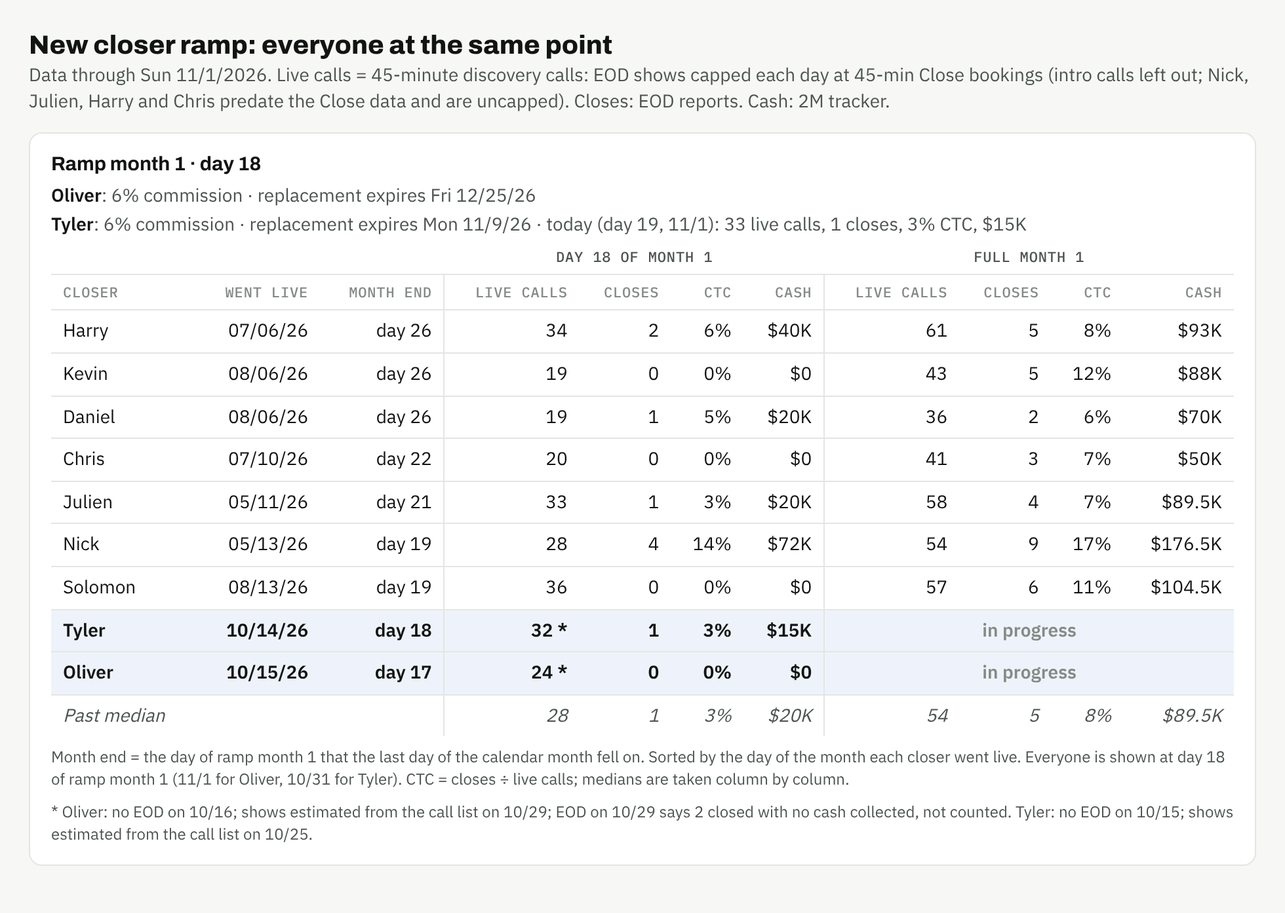
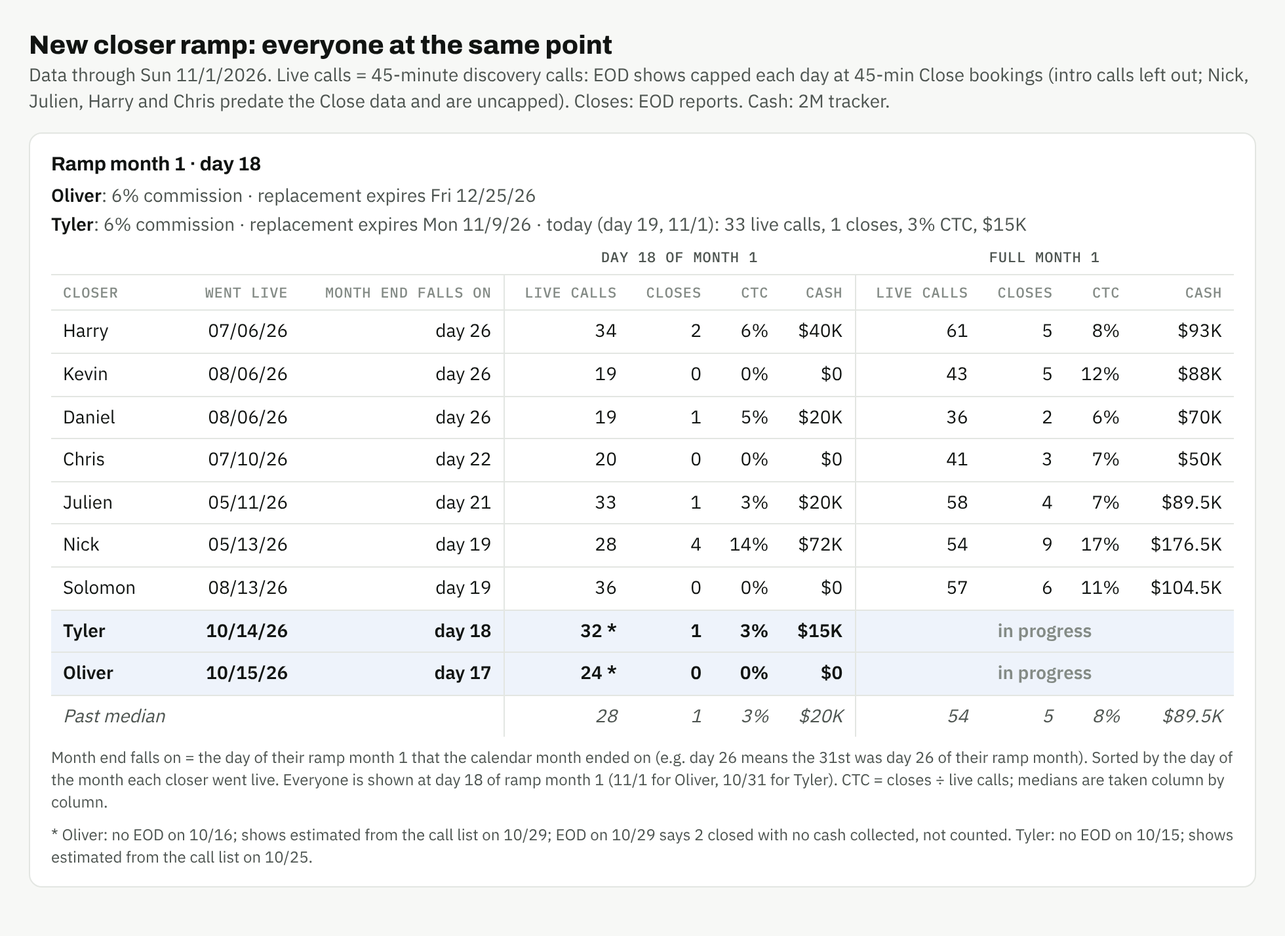
Ramp table: 'Month end falls on' column with a plain explanation
Claude-Session: https://claude.ai/code/session_01D9LMPQn5wBkznxh856E6g3

diff --git a/outputs/2026-11-02/ramp_kevin_solomon_page.html b/outputs/2026-11-02/ramp_kevin_solomon_page.html
@@ -8,7 +8,7 @@
 @media (prefers-color-scheme: dark){:root:not([data-theme="light"]){--bg:#121413;--card:#1a1c1b;--ink:#eef0ed;--ink2:#c0c5c1;--muted:#8e958f;--grid:#2c302d;--hl:#1e2633;color-scheme:dark}}
 :root[data-theme="dark"]{--bg:#121413;--card:#1a1c1b;--ink:#eef0ed;--ink2:#c0c5c1;--muted:#8e958f;--grid:#2c302d;--hl:#1e2633;color-scheme:dark}
 body{background:var(--bg);color:var(--ink);font:14px/1.45 var(--body)}
-.wrap{max-width:1000px;margin:0 auto;padding-block:28px 40px;padding-left:max(16px,env(safe-area-inset-left,0px));padding-right:max(16px,env(safe-area-inset-right,0px));display:flex;flex-direction:column;gap:16px}
+.wrap{max-width:1080px;margin:0 auto;padding-block:28px 40px;padding-left:max(16px,env(safe-area-inset-left,0px));padding-right:max(16px,env(safe-area-inset-right,0px));display:flex;flex-direction:column;gap:16px}
 .eyebrow{font:500 12px var(--mono);letter-spacing:.06em;text-transform:uppercase;color:var(--muted)}
 h1{font:800 clamp(22px,4vw,30px)/1.15 var(--display);margin:2px 0 0;text-wrap:balance}
 .lede{color:var(--ink2);margin:6px 0 0;max-width:75ch}
@@ -34,5 +34,5 @@ section+section{margin-top:0}
     <h1>Kevin and Solomon against every past closer at their current day</h1>
     <p class="lede">Each of them is compared with past closers at the same day of their own month 3: Kevin at day 27 (month 3 runs 10/6–11/5) and Solomon at day 20 (10/13–11/12). Data through Sun 11/1/2026. Live calls = 45-minute discovery calls: EOD shows capped each day at 45-min Close bookings (intro calls left out; Nick, Julien, Harry and Chris predate the Close data and are uncapped). Closes: EOD reports. Cash: 2M tracker.</p>
   </header>
-  <section><h2>Kevin · Ramp month 3 · day 27</h2><p class="sub"><b>Kevin</b>: 8% commission</p><div class="tw"><table><thead><tr><th></th><th></th><th></th><th colspan="4" class="grp">Day 27 of month 3</th><th colspan="4" class="grp">Full month 3</th></tr><tr><th>Closer</th><th>Went live</th><th>Month end</th><th class="gs">Live calls</th><th>Closes</th><th>CTC</th><th>Cash</th><th class="gs">Live calls</th><th>Closes</th><th>CTC</th><th>Cash</th></tr></thead><tbody><tr><td>Harry</td><td>07/06/26</td><td>day 25</td><td class="gs">33</td><td>6</td><td>18%</td><td>$256K</td><td class="gs">33</td><td>6</td><td>18%</td><td>$256K</td></tr><tr class="cur"><td>Kevin</td><td>08/06/26</td><td>day 26</td><td class="gs">36 *</td><td>7</td><td>19%</td><td>$148K</td><td class="gs ip" colspan="4">in progress</td></tr><tr><td>Julien</td><td>05/11/26</td><td>day 21</td><td class="gs">47</td><td>5</td><td>11%</td><td>$122.5K</td><td class="gs">52</td><td>9</td><td>17%</td><td>$198.5K</td></tr><tr><td>Nick</td><td>05/13/26</td><td>day 19</td><td class="gs">48</td><td>11</td><td>23%</td><td>$242.5K</td><td class="gs">55</td><td>14</td><td>25%</td><td>$298.5K</td></tr><tr class="med"><td>Past median</td><td></td><td></td><td class="gs">47</td><td>6</td><td>18%</td><td>$242.5K</td><td class="gs">52</td><td>9</td><td>18%</td><td>$256K</td></tr></tbody></table></div><p class="foot">Month end = the day of ramp month 3 that the last day of the calendar month fell on. Sorted by the day of the month each closer went live. Everyone is shown at day 27 of ramp month 3 (11/1 for Kevin). CTC = closes ÷ live calls; medians are taken column by column.</p><p class="foot">* Kevin: $20K collected on 10/31 with no EOD, so any close that day isn&#x27;t counted.</p><p class="foot">Only 3 past closers have finished ramp month 3 so far (Nick, Julien, Harry), so the median is thin.</p><p class="foot">Left out: Chris (no calls or cash in ramp month 3; already gone).</p></section><section><h2>Solomon · Ramp month 3 · day 20</h2><p class="sub"><b>Solomon</b>: 8% commission</p><div class="tw"><table><thead><tr><th></th><th></th><th></th><th colspan="4" class="grp">Day 20 of month 3</th><th colspan="4" class="grp">Full month 3</th></tr><tr><th>Closer</th><th>Went live</th><th>Month end</th><th class="gs">Live calls</th><th>Closes</th><th>CTC</th><th>Cash</th><th class="gs">Live calls</th><th>Closes</th><th>CTC</th><th>Cash</th></tr></thead><tbody><tr><td>Harry</td><td>07/06/26</td><td>day 25</td><td class="gs">24</td><td>5</td><td>21%</td><td>$119.5K</td><td class="gs">33</td><td>6</td><td>18%</td><td>$256K</td></tr><tr><td>Julien</td><td>05/11/26</td><td>day 21</td><td class="gs">34</td><td>1</td><td>3%</td><td>$52.5K</td><td class="gs">52</td><td>9</td><td>17%</td><td>$198.5K</td></tr><tr><td>Nick</td><td>05/13/26</td><td>day 19</td><td class="gs">30</td><td>10</td><td>33%</td><td>$227.5K</td><td class="gs">55</td><td>14</td><td>25%</td><td>$298.5K</td></tr><tr class="cur"><td>Solomon</td><td>08/13/26</td><td>day 19</td><td class="gs">28 *</td><td>5</td><td>18%</td><td>$104K</td><td class="gs ip" colspan="4">in progress</td></tr><tr class="med"><td>Past median</td><td></td><td></td><td class="gs">30</td><td>5</td><td>21%</td><td>$119.5K</td><td class="gs">52</td><td>9</td><td>18%</td><td>$256K</td></tr></tbody></table></div><p class="foot">Month end = the day of ramp month 3 that the last day of the calendar month fell on. Sorted by the day of the month each closer went live. Everyone is shown at day 20 of ramp month 3 (11/1 for Solomon). CTC = closes ÷ live calls; medians are taken column by column.</p><p class="foot">* Solomon: no EOD on 10/22, 10/23; $15K collected on 10/31 with no EOD, so any close that day isn&#x27;t counted.</p><p class="foot">Only 3 past closers have finished ramp month 3 so far (Nick, Julien, Harry), so the median is thin.</p><p class="foot">Left out: Chris (no calls or cash in ramp month 3; already gone).</p></section>
+  <section><h2>Kevin · Ramp month 3 · day 27</h2><p class="sub"><b>Kevin</b>: 8% commission</p><div class="tw"><table><thead><tr><th></th><th></th><th></th><th colspan="4" class="grp">Day 27 of month 3</th><th colspan="4" class="grp">Full month 3</th></tr><tr><th>Closer</th><th>Went live</th><th>Month end falls on</th><th class="gs">Live calls</th><th>Closes</th><th>CTC</th><th>Cash</th><th class="gs">Live calls</th><th>Closes</th><th>CTC</th><th>Cash</th></tr></thead><tbody><tr><td>Harry</td><td>07/06/26</td><td>day 25</td><td class="gs">33</td><td>6</td><td>18%</td><td>$256K</td><td class="gs">33</td><td>6</td><td>18%</td><td>$256K</td></tr><tr class="cur"><td>Kevin</td><td>08/06/26</td><td>day 26</td><td class="gs">36 *</td><td>7</td><td>19%</td><td>$148K</td><td class="gs ip" colspan="4">in progress</td></tr><tr><td>Julien</td><td>05/11/26</td><td>day 21</td><td class="gs">47</td><td>5</td><td>11%</td><td>$122.5K</td><td class="gs">52</td><td>9</td><td>17%</td><td>$198.5K</td></tr><tr><td>Nick</td><td>05/13/26</td><td>day 19</td><td class="gs">48</td><td>11</td><td>23%</td><td>$242.5K</td><td class="gs">55</td><td>14</td><td>25%</td><td>$298.5K</td></tr><tr class="med"><td>Past median</td><td></td><td></td><td class="gs">47</td><td>6</td><td>18%</td><td>$242.5K</td><td class="gs">52</td><td>9</td><td>18%</td><td>$256K</td></tr></tbody></table></div><p class="foot">Month end falls on = the day of their ramp month 3 that the calendar month ended on (e.g. day 26 means the 31st was day 26 of their ramp month). Sorted by the day of the month each closer went live. Everyone is shown at day 27 of ramp month 3 (11/1 for Kevin). CTC = closes ÷ live calls; medians are taken column by column.</p><p class="foot">* Kevin: $20K collected on 10/31 with no EOD, so any close that day isn&#x27;t counted.</p><p class="foot">Only 3 past closers have finished ramp month 3 so far (Nick, Julien, Harry), so the median is thin.</p><p class="foot">Left out: Chris (no calls or cash in ramp month 3; already gone).</p></section><section><h2>Solomon · Ramp month 3 · day 20</h2><p class="sub"><b>Solomon</b>: 8% commission</p><div class="tw"><table><thead><tr><th></th><th></th><th></th><th colspan="4" class="grp">Day 20 of month 3</th><th colspan="4" class="grp">Full month 3</th></tr><tr><th>Closer</th><th>Went live</th><th>Month end falls on</th><th class="gs">Live calls</th><th>Closes</th><th>CTC</th><th>Cash</th><th class="gs">Live calls</th><th>Closes</th><th>CTC</th><th>Cash</th></tr></thead><tbody><tr><td>Harry</td><td>07/06/26</td><td>day 25</td><td class="gs">24</td><td>5</td><td>21%</td><td>$119.5K</td><td class="gs">33</td><td>6</td><td>18%</td><td>$256K</td></tr><tr><td>Julien</td><td>05/11/26</td><td>day 21</td><td class="gs">34</td><td>1</td><td>3%</td><td>$52.5K</td><td class="gs">52</td><td>9</td><td>17%</td><td>$198.5K</td></tr><tr><td>Nick</td><td>05/13/26</td><td>day 19</td><td class="gs">30</td><td>10</td><td>33%</td><td>$227.5K</td><td class="gs">55</td><td>14</td><td>25%</td><td>$298.5K</td></tr><tr class="cur"><td>Solomon</td><td>08/13/26</td><td>day 19</td><td class="gs">28 *</td><td>5</td><td>18%</td><td>$104K</td><td class="gs ip" colspan="4">in progress</td></tr><tr class="med"><td>Past median</td><td></td><td></td><td class="gs">30</td><td>5</td><td>21%</td><td>$119.5K</td><td class="gs">52</td><td>9</td><td>18%</td><td>$256K</td></tr></tbody></table></div><p class="foot">Month end falls on = the day of their ramp month 3 that the calendar month ended on (e.g. day 26 means the 31st was day 26 of their ramp month). Sorted by the day of the month each closer went live. Everyone is shown at day 20 of ramp month 3 (11/1 for Solomon). CTC = closes ÷ live calls; medians are taken column by column.</p><p class="foot">* Solomon: no EOD on 10/22, 10/23; $15K collected on 10/31 with no EOD, so any close that day isn&#x27;t counted.</p><p class="foot">Only 3 past closers have finished ramp month 3 so far (Nick, Julien, Harry), so the median is thin.</p><p class="foot">Left out: Chris (no calls or cash in ramp month 3; already gone).</p></section>
 </div>

diff --git a/outputs/2026-11-02/ramp_table_kevin_solomon.html b/outputs/2026-11-02/ramp_table_kevin_solomon.html
@@ -17,4 +17,4 @@ tr.med td{color:var(--ink2);font-style:italic;border-bottom:none}
 .foot{font-size:12px;color:var(--ink2);margin:8px 0 0}
 .sub{margin:0 0 2px;color:var(--ink2)}.sub b{color:var(--ink)}
 section h2+.sub{margin-top:-2px}section .sub:last-of-type{margin-bottom:10px}
-</style></head><body><div class='wrap'><h1>New closer ramp: everyone at the same point</h1><p class='lede'>Data through Sun 11/1/2026. Live calls = 45-minute discovery calls: EOD shows capped each day at 45-min Close bookings (intro calls left out; Nick, Julien, Harry and Chris predate the Close data and are uncapped). Closes: EOD reports. Cash: 2M tracker.</p><section><h2>Kevin · Ramp month 3 · day 27</h2><p class="sub"><b>Kevin</b>: 8% commission</p><table><thead><tr><th></th><th></th><th></th><th colspan="4" class="grp">Day 27 of month 3</th><th colspan="4" class="grp">Full month 3</th></tr><tr><th>Closer</th><th>Went live</th><th>Month end</th><th class="gs">Live calls</th><th>Closes</th><th>CTC</th><th>Cash</th><th class="gs">Live calls</th><th>Closes</th><th>CTC</th><th>Cash</th></tr></thead><tbody><tr><td>Harry</td><td>07/06/26</td><td>day 25</td><td class="gs">33</td><td>6</td><td>18%</td><td>$256K</td><td class="gs">33</td><td>6</td><td>18%</td><td>$256K</td></tr><tr class="cur"><td>Kevin</td><td>08/06/26</td><td>day 26</td><td class="gs">36 *</td><td>7</td><td>19%</td><td>$148K</td><td class="gs ip" colspan="4">in progress</td></tr><tr><td>Julien</td><td>05/11/26</td><td>day 21</td><td class="gs">47</td><td>5</td><td>11%</td><td>$122.5K</td><td class="gs">52</td><td>9</td><td>17%</td><td>$198.5K</td></tr><tr><td>Nick</td><td>05/13/26</td><td>day 19</td><td class="gs">48</td><td>11</td><td>23%</td><td>$242.5K</td><td class="gs">55</td><td>14</td><td>25%</td><td>$298.5K</td></tr><tr class="med"><td>Past median</td><td></td><td></td><td class="gs">47</td><td>6</td><td>18%</td><td>$242.5K</td><td class="gs">52</td><td>9</td><td>18%</td><td>$256K</td></tr></tbody></table><p class="foot">Month end = the day of ramp month 3 that the last day of the calendar month fell on. Sorted by the day of the month each closer went live. Everyone is shown at day 27 of ramp month 3 (11/1 for Kevin). CTC = closes ÷ live calls; medians are taken column by column.</p><p class="foot">* Kevin: $20K collected on 10/31 with no EOD, so any close that day isn&#x27;t counted.</p><p class="foot">Only 3 past closers have finished ramp month 3 so far (Nick, Julien, Harry), so the median is thin.</p><p class="foot">Left out: Chris (no calls or cash in ramp month 3; already gone).</p></section><section><h2>Solomon · Ramp month 3 · day 20</h2><p class="sub"><b>Solomon</b>: 8% commission</p><table><thead><tr><th></th><th></th><th></th><th colspan="4" class="grp">Day 20 of month 3</th><th colspan="4" class="grp">Full month 3</th></tr><tr><th>Closer</th><th>Went live</th><th>Month end</th><th class="gs">Live calls</th><th>Closes</th><th>CTC</th><th>Cash</th><th class="gs">Live calls</th><th>Closes</th><th>CTC</th><th>Cash</th></tr></thead><tbody><tr><td>Harry</td><td>07/06/26</td><td>day 25</td><td class="gs">24</td><td>5</td><td>21%</td><td>$119.5K</td><td class="gs">33</td><td>6</td><td>18%</td><td>$256K</td></tr><tr><td>Julien</td><td>05/11/26</td><td>day 21</td><td class="gs">34</td><td>1</td><td>3%</td><td>$52.5K</td><td class="gs">52</td><td>9</td><td>17%</td><td>$198.5K</td></tr><tr><td>Nick</td><td>05/13/26</td><td>day 19</td><td class="gs">30</td><td>10</td><td>33%</td><td>$227.5K</td><td class="gs">55</td><td>14</td><td>25%</td><td>$298.5K</td></tr><tr class="cur"><td>Solomon</td><td>08/13/26</td><td>day 19</td><td class="gs">28 *</td><td>5</td><td>18%</td><td>$104K</td><td class="gs ip" colspan="4">in progress</td></tr><tr class="med"><td>Past median</td><td></td><td></td><td class="gs">30</td><td>5</td><td>21%</td><td>$119.5K</td><td class="gs">52</td><td>9</td><td>18%</td><td>$256K</td></tr></tbody></table><p class="foot">Month end = the day of ramp month 3 that the last day of the calendar month fell on. Sorted by the day of the month each closer went live. Everyone is shown at day 20 of ramp month 3 (11/1 for Solomon). CTC = closes ÷ live calls; medians are taken column by column.</p><p class="foot">* Solomon: no EOD on 10/22, 10/23; $15K collected on 10/31 with no EOD, so any close that day isn&#x27;t counted.</p><p class="foot">Only 3 past closers have finished ramp month 3 so far (Nick, Julien, Harry), so the median is thin.</p><p class="foot">Left out: Chris (no calls or cash in ramp month 3; already gone).</p></section></div></body></html>
+</style></head><body><div class='wrap'><h1>New closer ramp: everyone at the same point</h1><p class='lede'>Data through Sun 11/1/2026. Live calls = 45-minute discovery calls: EOD shows capped each day at 45-min Close bookings (intro calls left out; Nick, Julien, Harry and Chris predate the Close data and are uncapped). Closes: EOD reports. Cash: 2M tracker.</p><section><h2>Kevin · Ramp month 3 · day 27</h2><p class="sub"><b>Kevin</b>: 8% commission</p><table><thead><tr><th></th><th></th><th></th><th colspan="4" class="grp">Day 27 of month 3</th><th colspan="4" class="grp">Full month 3</th></tr><tr><th>Closer</th><th>Went live</th><th>Month end falls on</th><th class="gs">Live calls</th><th>Closes</th><th>CTC</th><th>Cash</th><th class="gs">Live calls</th><th>Closes</th><th>CTC</th><th>Cash</th></tr></thead><tbody><tr><td>Harry</td><td>07/06/26</td><td>day 25</td><td class="gs">33</td><td>6</td><td>18%</td><td>$256K</td><td class="gs">33</td><td>6</td><td>18%</td><td>$256K</td></tr><tr class="cur"><td>Kevin</td><td>08/06/26</td><td>day 26</td><td class="gs">36 *</td><td>7</td><td>19%</td><td>$148K</td><td class="gs ip" colspan="4">in progress</td></tr><tr><td>Julien</td><td>05/11/26</td><td>day 21</td><td class="gs">47</td><td>5</td><td>11%</td><td>$122.5K</td><td class="gs">52</td><td>9</td><td>17%</td><td>$198.5K</td></tr><tr><td>Nick</td><td>05/13/26</td><td>day 19</td><td class="gs">48</td><td>11</td><td>23%</td><td>$242.5K</td><td class="gs">55</td><td>14</td><td>25%</td><td>$298.5K</td></tr><tr class="med"><td>Past median</td><td></td><td></td><td class="gs">47</td><td>6</td><td>18%</td><td>$242.5K</td><td class="gs">52</td><td>9</td><td>18%</td><td>$256K</td></tr></tbody></table><p class="foot">Month end falls on = the day of their ramp month 3 that the calendar month ended on (e.g. day 26 means the 31st was day 26 of their ramp month). Sorted by the day of the month each closer went live. Everyone is shown at day 27 of ramp month 3 (11/1 for Kevin). CTC = closes ÷ live calls; medians are taken column by column.</p><p class="foot">* Kevin: $20K collected on 10/31 with no EOD, so any close that day isn&#x27;t counted.</p><p class="foot">Only 3 past closers have finished ramp month 3 so far (Nick, Julien, Harry), so the median is thin.</p><p class="foot">Left out: Chris (no calls or cash in ramp month 3; already gone).</p></section><section><h2>Solomon · Ramp month 3 · day 20</h2><p class="sub"><b>Solomon</b>: 8% commission</p><table><thead><tr><th></th><th></th><th></th><th colspan="4" class="grp">Day 20 of month 3</th><th colspan="4" class="grp">Full month 3</th></tr><tr><th>Closer</th><th>Went live</th><th>Month end falls on</th><th class="gs">Live calls</th><th>Closes</th><th>CTC</th><th>Cash</th><th class="gs">Live calls</th><th>Closes</th><th>CTC</th><th>Cash</th></tr></thead><tbody><tr><td>Harry</td><td>07/06/26</td><td>day 25</td><td class="gs">24</td><td>5</td><td>21%</td><td>$119.5K</td><td class="gs">33</td><td>6</td><td>18%</td><td>$256K</td></tr><tr><td>Julien</td><td>05/11/26</td><td>day 21</td><td class="gs">34</td><td>1</td><td>3%</td><td>$52.5K</td><td class="gs">52</td><td>9</td><td>17%</td><td>$198.5K</td></tr><tr><td>Nick</td><td>05/13/26</td><td>day 19</td><td class="gs">30</td><td>10</td><td>33%</td><td>$227.5K</td><td class="gs">55</td><td>14</td><td>25%</td><td>$298.5K</td></tr><tr class="cur"><td>Solomon</td><td>08/13/26</td><td>day 19</td><td class="gs">28 *</td><td>5</td><td>18%</td><td>$104K</td><td class="gs ip" colspan="4">in progress</td></tr><tr class="med"><td>Past median</td><td></td><td></td><td class="gs">30</td><td>5</td><td>21%</td><td>$119.5K</td><td class="gs">52</td><td>9</td><td>18%</td><td>$256K</td></tr></tbody></table><p class="foot">Month end falls on = the day of their ramp month 3 that the calendar month ended on (e.g. day 26 means the 31st was day 26 of their ramp month). Sorted by the day of the month each closer went live. Everyone is shown at day 20 of ramp month 3 (11/1 for Solomon). CTC = closes ÷ live calls; medians are taken column by column.</p><p class="foot">* Solomon: no EOD on 10/22, 10/23; $15K collected on 10/31 with no EOD, so any close that day isn&#x27;t counted.</p><p class="foot">Only 3 past closers have finished ramp month 3 so far (Nick, Julien, Harry), so the median is thin.</p><p class="foot">Left out: Chris (no calls or cash in ramp month 3; already gone).</p></section></div></body></html>

diff --git a/outputs/2026-11-02/weekly_table.html b/outputs/2026-11-02/weekly_table.html
@@ -17,4 +17,4 @@ tr.med td{color:var(--ink2);font-style:italic;border-bottom:none}
 .foot{font-size:12px;color:var(--ink2);margin:8px 0 0}
 .sub{margin:0 0 2px;color:var(--ink2)}.sub b{color:var(--ink)}
 section h2+.sub{margin-top:-2px}section .sub:last-of-type{margin-bottom:10px}
-</style></head><body><div class='wrap'><h1>New closer ramp: everyone at the same point</h1><p class='lede'>Data through Sun 11/1/2026. Live calls = 45-minute discovery calls: EOD shows capped each day at 45-min Close bookings (intro calls left out; Nick, Julien, Harry and Chris predate the Close data and are uncapped). Closes: EOD reports. Cash: 2M tracker.</p><section><h2>Ramp month 1 · day 18</h2><p class="sub"><b>Oliver</b>: 6% commission · replacement expires Fri 12/25/26</p><p class="sub"><b>Tyler</b>: 6% commission · replacement expires Mon 11/9/26 · today (day 19, 11/1): 33 live calls, 1 closes, 3% CTC, $15K</p><table><thead><tr><th></th><th></th><th></th><th colspan="4" class="grp">Day 18 of month 1</th><th colspan="4" class="grp">Full month 1</th></tr><tr><th>Closer</th><th>Went live</th><th>Month end</th><th class="gs">Live calls</th><th>Closes</th><th>CTC</th><th>Cash</th><th class="gs">Live calls</th><th>Closes</th><th>CTC</th><th>Cash</th></tr></thead><tbody><tr><td>Harry</td><td>07/06/26</td><td>day 26</td><td class="gs">34</td><td>2</td><td>6%</td><td>$40K</td><td class="gs">61</td><td>5</td><td>8%</td><td>$93K</td></tr><tr><td>Kevin</td><td>08/06/26</td><td>day 26</td><td class="gs">19</td><td>0</td><td>0%</td><td>$0</td><td class="gs">43</td><td>5</td><td>12%</td><td>$88K</td></tr><tr><td>Daniel</td><td>08/06/26</td><td>day 26</td><td class="gs">19</td><td>1</td><td>5%</td><td>$20K</td><td class="gs">36</td><td>2</td><td>6%</td><td>$70K</td></tr><tr><td>Chris</td><td>07/10/26</td><td>day 22</td><td class="gs">20</td><td>0</td><td>0%</td><td>$0</td><td class="gs">41</td><td>3</td><td>7%</td><td>$50K</td></tr><tr><td>Julien</td><td>05/11/26</td><td>day 21</td><td class="gs">33</td><td>1</td><td>3%</td><td>$20K</td><td class="gs">58</td><td>4</td><td>7%</td><td>$89.5K</td></tr><tr><td>Nick</td><td>05/13/26</td><td>day 19</td><td class="gs">28</td><td>4</td><td>14%</td><td>$72K</td><td class="gs">54</td><td>9</td><td>17%</td><td>$176.5K</td></tr><tr><td>Solomon</td><td>08/13/26</td><td>day 19</td><td class="gs">36</td><td>0</td><td>0%</td><td>$0</td><td class="gs">57</td><td>6</td><td>11%</td><td>$104.5K</td></tr><tr class="cur"><td>Tyler</td><td>10/14/26</td><td>day 18</td><td class="gs">32 *</td><td>1</td><td>3%</td><td>$15K</td><td class="gs ip" colspan="4">in progress</td></tr><tr class="cur"><td>Oliver</td><td>10/15/26</td><td>day 17</td><td class="gs">24 *</td><td>0</td><td>0%</td><td>$0</td><td class="gs ip" colspan="4">in progress</td></tr><tr class="med"><td>Past median</td><td></td><td></td><td class="gs">28</td><td>1</td><td>3%</td><td>$20K</td><td class="gs">54</td><td>5</td><td>8%</td><td>$89.5K</td></tr></tbody></table><p class="foot">Month end = the day of ramp month 1 that the last day of the calendar month fell on. Sorted by the day of the month each closer went live. Everyone is shown at day 18 of ramp month 1 (11/1 for Oliver, 10/31 for Tyler). CTC = closes ÷ live calls; medians are taken column by column.</p><p class="foot">* Oliver: no EOD on 10/16; shows estimated from the call list on 10/29; EOD on 10/29 says 2 closed with no cash collected, not counted. Tyler: no EOD on 10/15; shows estimated from the call list on 10/25.</p></section></div></body></html>
+</style></head><body><div class='wrap'><h1>New closer ramp: everyone at the same point</h1><p class='lede'>Data through Sun 11/1/2026. Live calls = 45-minute discovery calls: EOD shows capped each day at 45-min Close bookings (intro calls left out; Nick, Julien, Harry and Chris predate the Close data and are uncapped). Closes: EOD reports. Cash: 2M tracker.</p><section><h2>Ramp month 1 · day 18</h2><p class="sub"><b>Oliver</b>: 6% commission · replacement expires Fri 12/25/26</p><p class="sub"><b>Tyler</b>: 6% commission · replacement expires Mon 11/9/26 · today (day 19, 11/1): 33 live calls, 1 closes, 3% CTC, $15K</p><table><thead><tr><th></th><th></th><th></th><th colspan="4" class="grp">Day 18 of month 1</th><th colspan="4" class="grp">Full month 1</th></tr><tr><th>Closer</th><th>Went live</th><th>Month end falls on</th><th class="gs">Live calls</th><th>Closes</th><th>CTC</th><th>Cash</th><th class="gs">Live calls</th><th>Closes</th><th>CTC</th><th>Cash</th></tr></thead><tbody><tr><td>Harry</td><td>07/06/26</td><td>day 26</td><td class="gs">34</td><td>2</td><td>6%</td><td>$40K</td><td class="gs">61</td><td>5</td><td>8%</td><td>$93K</td></tr><tr><td>Kevin</td><td>08/06/26</td><td>day 26</td><td class="gs">19</td><td>0</td><td>0%</td><td>$0</td><td class="gs">43</td><td>5</td><td>12%</td><td>$88K</td></tr><tr><td>Daniel</td><td>08/06/26</td><td>day 26</td><td class="gs">19</td><td>1</td><td>5%</td><td>$20K</td><td class="gs">36</td><td>2</td><td>6%</td><td>$70K</td></tr><tr><td>Chris</td><td>07/10/26</td><td>day 22</td><td class="gs">20</td><td>0</td><td>0%</td><td>$0</td><td class="gs">41</td><td>3</td><td>7%</td><td>$50K</td></tr><tr><td>Julien</td><td>05/11/26</td><td>day 21</td><td class="gs">33</td><td>1</td><td>3%</td><td>$20K</td><td class="gs">58</td><td>4</td><td>7%</td><td>$89.5K</td></tr><tr><td>Nick</td><td>05/13/26</td><td>day 19</td><td class="gs">28</td><td>4</td><td>14%</td><td>$72K</td><td class="gs">54</td><td>9</td><td>17%</td><td>$176.5K</td></tr><tr><td>Solomon</td><td>08/13/26</td><td>day 19</td><td class="gs">36</td><td>0</td><td>0%</td><td>$0</td><td class="gs">57</td><td>6</td><td>11%</td><td>$104.5K</td></tr><tr class="cur"><td>Tyler</td><td>10/14/26</td><td>day 18</td><td class="gs">32 *</td><td>1</td><td>3%</td><td>$15K</td><td class="gs ip" colspan="4">in progress</td></tr><tr class="cur"><td>Oliver</td><td>10/15/26</td><td>day 17</td><td class="gs">24 *</td><td>0</td><td>0%</td><td>$0</td><td class="gs ip" colspan="4">in progress</td></tr><tr class="med"><td>Past median</td><td></td><td></td><td class="gs">28</td><td>1</td><td>3%</td><td>$20K</td><td class="gs">54</td><td>5</td><td>8%</td><td>$89.5K</td></tr></tbody></table><p class="foot">Month end falls on = the day of their ramp month 1 that the calendar month ended on (e.g. day 26 means the 31st was day 26 of their ramp month). Sorted by the day of the month each closer went live. Everyone is shown at day 18 of ramp month 1 (11/1 for Oliver, 10/31 for Tyler). CTC = closes ÷ live calls; medians are taken column by column.</p><p class="foot">* Oliver: no EOD on 10/16; shows estimated from the call list on 10/29; EOD on 10/29 says 2 closed with no cash collected, not counted. Tyler: no EOD on 10/15; shows estimated from the call list on 10/25.</p></section></div></body></html>

diff --git a/outputs/2026-11-02/ramp_curve.html b/outputs/2026-11-02/ramp_curve.html
@@ -15,7 +15,7 @@
   --bg:#121413; --surface:#1a1c1b; --ink:#eef0ed; --ink2:#c0c5c1; --muted:#8e958f; --grid:#2c302d;
   --past:#4a504c; --median:#c0c5c1; --oliver:#3987e5; --tyler:#d95926; --target:#2fa52f; --floor:#d9a12a; color-scheme:dark}
 body{background:var(--bg);color:var(--ink);font:15px/1.5 var(--body)}
-.wrap{max-width:960px;margin:0 auto;padding-block:28px 48px;padding-left:max(16px,env(safe-area-inset-left,0px));padding-right:max(16px,env(safe-area-inset-right,0px));display:flex;flex-direction:column;gap:22px}
+.wrap{max-width:1040px;margin:0 auto;padding-block:28px 48px;padding-left:max(16px,env(safe-area-inset-left,0px));padding-right:max(16px,env(safe-area-inset-right,0px));display:flex;flex-direction:column;gap:22px}
 h1{font:800 clamp(24px,4vw,32px)/1.1 var(--display);margin:0;text-wrap:balance;letter-spacing:-.01em}
 h2{font:700 18px/1.2 var(--display);margin:0}
 .lede{color:var(--ink2);margin:6px 0 0;max-width:68ch}
@@ -106,13 +106,13 @@ const mdCtc = k => median(P.map(r => r[k[1]] ? r[k[0]]/r[k[1]] : 0));
 const sw = r => r.cur ? `<span class="sw" style="background:${COLOR[r.n]};margin-right:8px;vertical-align:-1px"></span>` : "";
 const star = r => r.cur ? " *" : "";
 document.getElementById("tbl").innerHTML =
-  `<thead><tr><th></th><th></th><th></th><th colspan="4" class="grp">By day ${D}</th><th colspan="4" class="grp">Full month 1</th></tr>
-   <tr><th>Closer</th><th>Went live</th><th>Month end</th><th>Live calls</th><th>Closes</th><th>CTC</th><th>Cash</th><th>Live calls</th><th>Closes</th><th>CTC</th><th>Cash</th></tr></thead><tbody>` +
+  `<thead><tr><th></th><th></th><th></th><th colspan="4" class="grp">Day ${D} of month 1</th><th colspan="4" class="grp">Full month 1</th></tr>
+   <tr><th>Closer</th><th>Went live</th><th>Month end falls on</th><th>Live calls</th><th>Closes</th><th>CTC</th><th>Cash</th><th>Live calls</th><th>Closes</th><th>CTC</th><th>Cash</th></tr></thead><tbody>` +
   rows.map(r=>`<tr class="${r.cur?"cur":""}"><td>${sw(r)}${r.n}</td><td>${DATA[r.n].go_live.slice(5).replace("-","/")}/${DATA[r.n].go_live.slice(2,4)}</td><td>day ${monthEndDay(DATA[r.n].go_live)}</td>
     <td class="gs">${r.live}${star(r)}</td><td>${r.cl}</td><td>${pct(r.cl,r.live)}</td><td>${fmt$(r.cash)}</td>
     ${r.cur ? `<td class="gs" colspan="4" style="text-align:center;color:var(--muted);font-weight:400">in progress</td>` :
       `<td class="gs">${r.fLive}</td><td>${r.fCl}</td><td>${pct(r.fCl,r.fLive)}</td><td>${fmt$(r.fCash)}</td>`}</tr>`).join("") +
   `<tr class="med"><td>Past median</td><td></td><td></td><td class="gs">${md("live")}</td><td>${md("cl")}</td><td>${Math.round(mdCtc(["cl","live"])*100)}%</td><td>${fmt$(md("cash"))}</td>
     <td class="gs">${md("fLive")}</td><td>${md("fCl")}</td><td>${Math.round(mdCtc(["fCl","fLive"])*100)}%</td><td>${fmt$(md("fCash"))}</td></tr></tbody>`;
-document.getElementById("tbl").insertAdjacentHTML("afterend", `<p class="foot">Month end = the day of ramp month 1 that the last day of the calendar month fell on; cash tends to land then. Sorted by the day of the month each closer went live. Everyone is shown at day ${D}, which is 11/1 for Oliver and 10/31 for Tyler. Live calls = 45-minute discovery calls only: each day's EOD shows are capped at that day's 45-minute bookings in Close, so 15-minute intro (setter) calls aren't counted. Kevin, Daniel and Solomon are capped the same way; Nick, Julien, Harry and Chris ramped before the Close data I have (it starts 8/1), so theirs are uncapped EOD shows. CTC = closes ÷ live calls. Medians are taken column by column, so the median CTC isn't the median closes ÷ median live calls.<br>* Oliver's 10/29 EOD says 2 closed, but it collected $0, every call it lists ended with a follow-up booked, and the tracker has no close for him, so it's counted as 0 here. Tyler's one close is 10/30, for $15K.</p>`);
+document.getElementById("tbl").insertAdjacentHTML("afterend", `<p class="foot">Month end falls on = the day of their ramp month 1 that the calendar month ended on (e.g. day 18 means 10/31 was day 18 of Tyler's ramp month); cash tends to land then. Sorted by the day of the month each closer went live. Everyone is shown at day ${D}, which is 11/1 for Oliver and 10/31 for Tyler. Live calls = 45-minute discovery calls only: each day's EOD shows are capped at that day's 45-minute bookings in Close, so 15-minute intro (setter) calls aren't counted. Kevin, Daniel and Solomon are capped the same way; Nick, Julien, Harry and Chris ramped before the Close data I have (it starts 8/1), so theirs are uncapped EOD shows. CTC = closes ÷ live calls. Medians are taken column by column, so the median CTC isn't the median closes ÷ median live calls.<br>* Oliver's 10/29 EOD says 2 closed, but it collected $0, every call it lists ended with a follow-up booked, and the tracker has no close for him, so it's counted as 0 here. Tyler's one close is 10/30, for $15K.</p>`);
 </script>

diff --git a/ramp/weekly_table.py b/ramp/weekly_table.py
@@ -231,7 +231,7 @@ def table_html(t):
                f'<td>{round(m["ctc"] * 100)}%</td><td>{fmt_money(m["cash"])}</td><td class="gs">{num(m["f_live"])}</td>'
                f'<td>{num(m["f_closes"])}</td><td>{round(m["f_ctc"] * 100)}%</td><td>{fmt_money(m["f_cash"])}</td></tr>')
     when = ", ".join(f'{r["end"]:%-m/%-d} for {r["name"]}' for r in t["current"])
-    notes = [f"Month end = the day of ramp month {k} that the last day of the calendar month fell on. "
+    notes = [f"Month end falls on = the day of their ramp month {k} that the calendar month ended on (e.g. day 26 means the 31st was day 26 of their ramp month). "
              f"Sorted by the day of the month each closer went live. Everyone is shown at day {day} of ramp month {k} ({when}). "
              "CTC = closes ÷ live calls; medians are taken column by column."]
     star = []
@@ -272,7 +272,7 @@ def table_html(t):
     who = f'{t["current"][0]["name"]} · ' if len(t["current"]) == 1 else ""
     return (f'<section><h2>{who}Ramp month {k} · day {day}</h2>' + "".join(subs) +
             f'<table><thead><tr><th></th><th></th><th></th><th colspan="4" class="grp">Day {day} of month {k}</th><th colspan="4" class="grp">Full month {k}</th></tr>'
-            '<tr><th>Closer</th><th>Went live</th><th>Month end</th><th class="gs">Live calls</th><th>Closes</th><th>CTC</th><th>Cash</th>'
+            '<tr><th>Closer</th><th>Went live</th><th>Month end falls on</th><th class="gs">Live calls</th><th>Closes</th><th>CTC</th><th>Cash</th>'
             '<th class="gs">Live calls</th><th>Closes</th><th>CTC</th><th>Cash</th></tr></thead>'
             f'<tbody>{"".join(trs)}</tbody></table>' + "".join(f'<p class="foot">{escape(n)}</p>' for n in notes) + "</section>")
 
